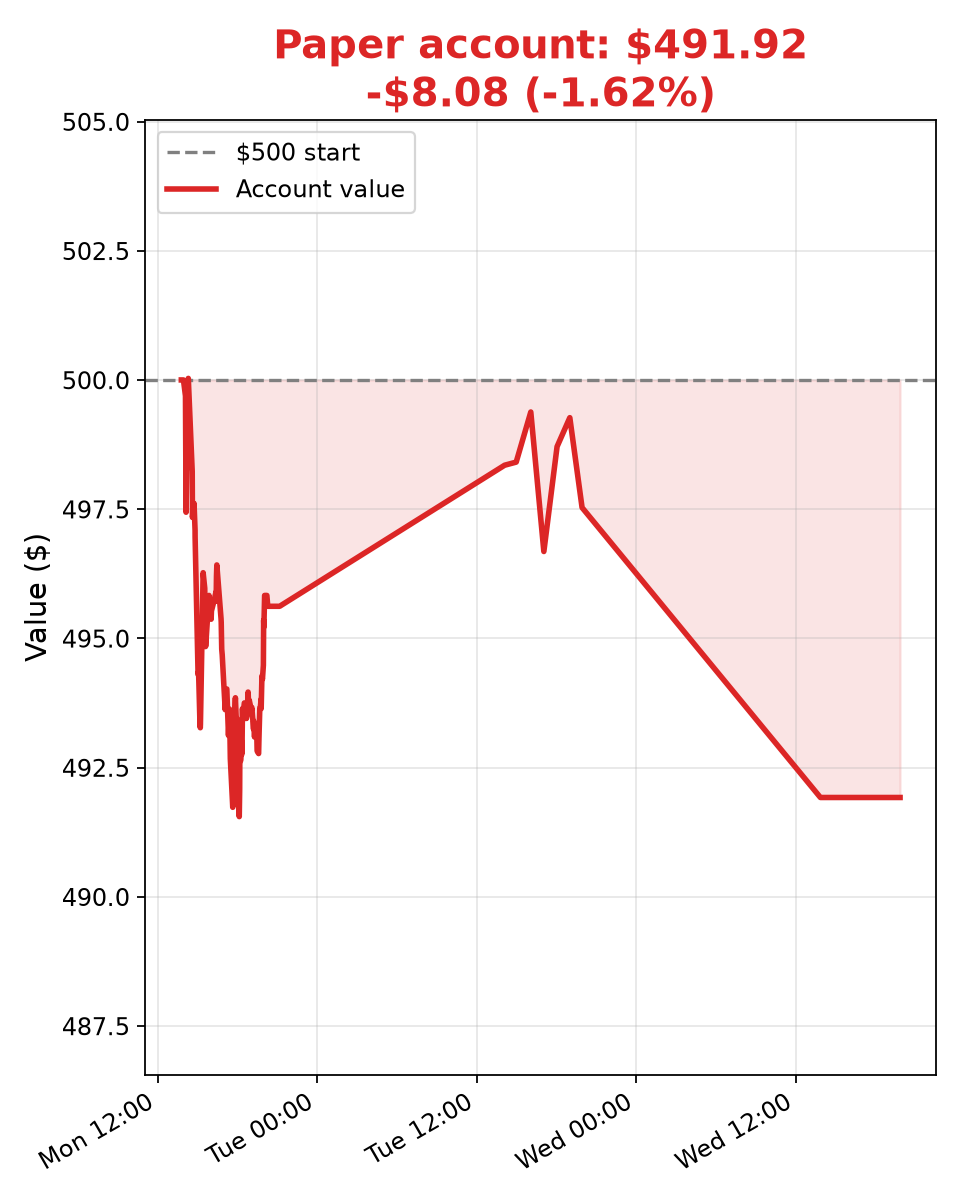
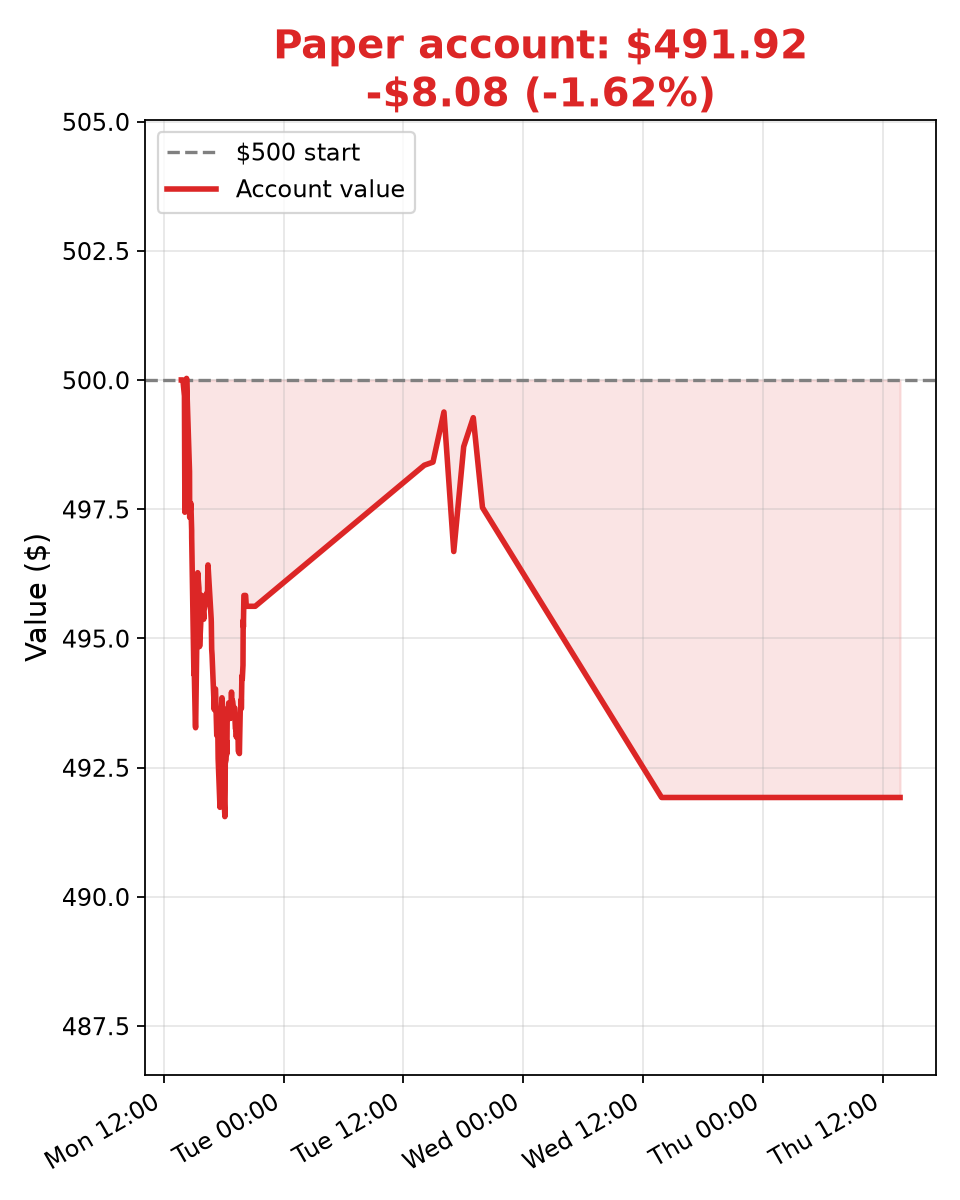
Update 2026-10-15T13:42:10Z

diff --git a/ledger.md b/ledger.md
@@ -190,3 +190,4 @@
 - 2026-10-14T18:49:00Z — total $491.92, cash $491.92 (Stock Bot mark, 1:49 PM CT, no trade; flat cash; SPY ~768 (−0.9% from open) near LOD, QQQ/IWM weaker; only late defensive breakouts MCD/TGT into risk-off tape, edge thin, cash held)
 
 - 2026-10-14T19:49:40Z — total $491.92, cash $491.92 (Stock Bot mark, 2:49 PM CT, no trade; flat cash; SPY ~769 (−1.1%), QQQ/IWM −2% near LOD; late defensive breakouts COST/LMT/CVX into risk-off skipped, <15m to close)
+- 2026-10-15T13:42:09Z — total $491.92, cash $491.92 (Stock Bot mark, 8:42 AM CT, no trade; flat cash; open: SPY 767.2 (−0.3%), QQQ −1.2%, IWM +0.2%; early gap_and_go ARQT/TRU/CPB/ABG/MRSH/Z skipped — n=36, ~50% win, no edge in tech-led risk-off)
